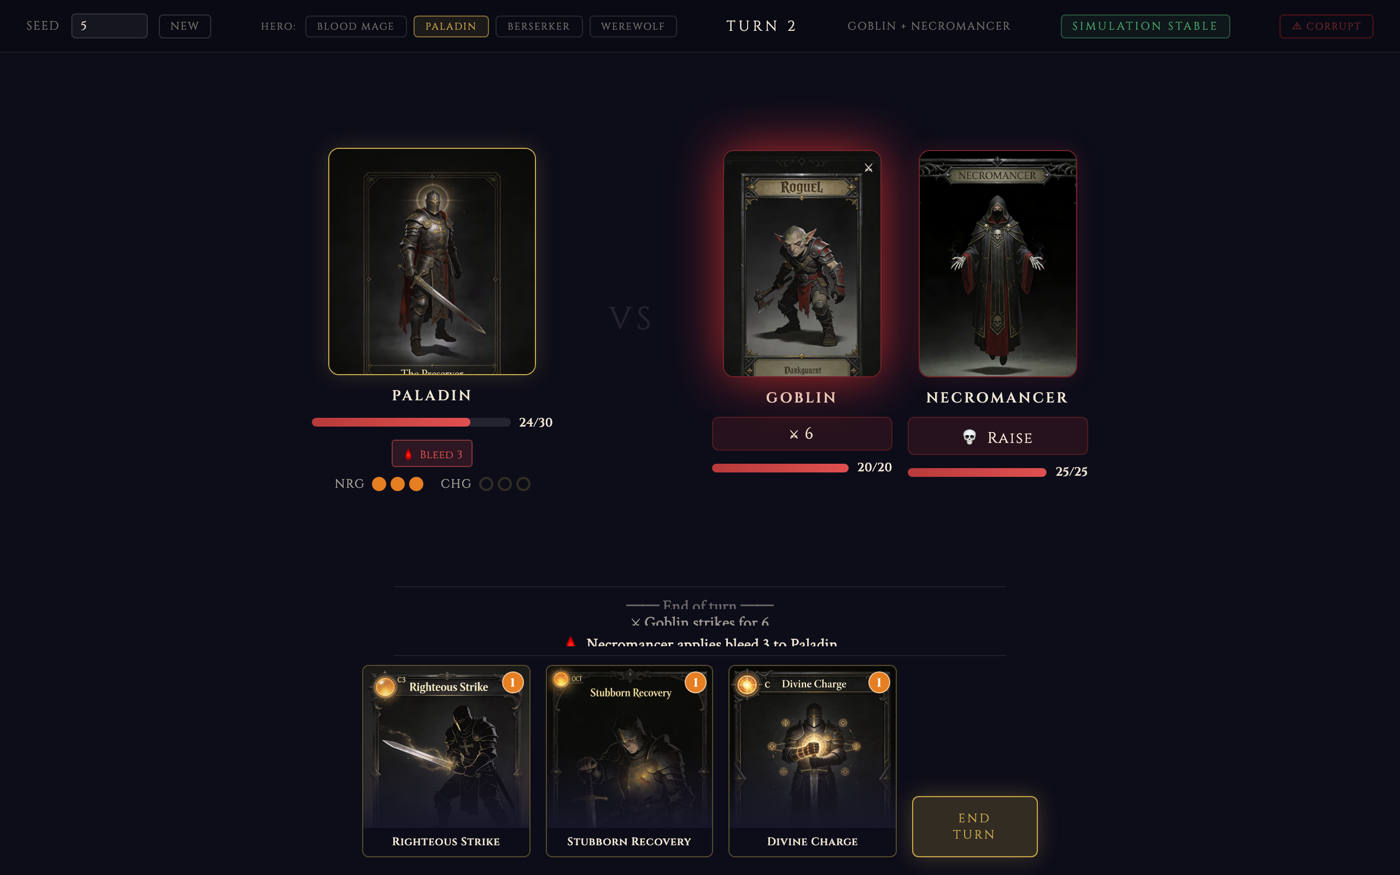
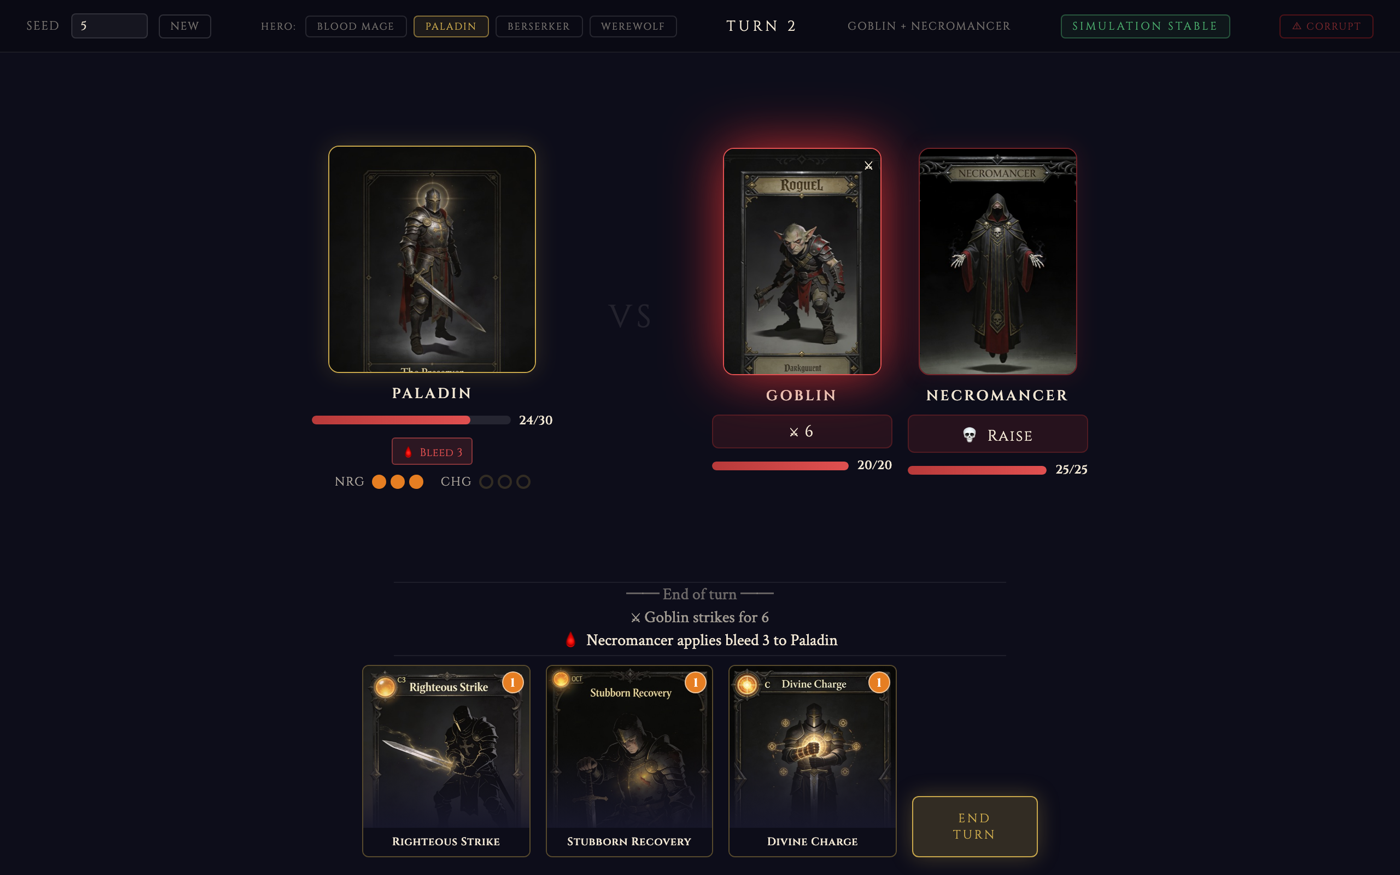
Fix BUG-19: combat log clipped its top line; compress assets; add contents, screenshots, licence

diff --git a/game/index.html b/game/index.html
@@ -425,23 +425,41 @@
     /* ── Combat log ───────────────────────────────────────────── */
 
     .combat-log {
-      height: clamp(56px, 8vh, 80px);
+      /* Height is budgeted against the 13" viewport (see DECISIONS.md D-07), so the
+         log cannot simply grow to fit its entries. It used to clip with
+         overflow: hidden and justify-content: flex-end, which cut the topmost
+         entry in half rather than hiding it — the text looked broken rather than
+         scrolled. Scrolling with the newest entry pinned into view keeps the
+         budget and shows whole lines. */
+      /* Exactly three whole lines: 3 × 18px line-height + 2 × 3px gap + 2 × 4px
+         padding. A height that is not a whole number of lines leaves a sliced
+         row at the top edge, which is what this looked like before. */
+      height: 68px;
       margin: 0 auto;
       width: 560px;
       border-top: 1px solid var(--border);
       border-bottom: 1px solid var(--border);
-      overflow: hidden;
+      overflow-y: auto;
+      overscroll-behavior: contain;
+      scrollbar-width: none;          /* Firefox */
+      -ms-overflow-style: none;       /* legacy Edge */
       display: flex;
       flex-direction: column;
-      justify-content: flex-end;
-      padding: 8px 0;
+      justify-content: flex-start;
+      padding: 4px 0;
       gap: 3px;
       flex-shrink: 0;
     }
 
+    .combat-log::-webkit-scrollbar { display: none; }
+
     .log-entry {
       font-family: 'Crimson Text', serif;
       font-size: 15px;
+      /* Explicit, so the container height is a whole number of lines and a
+         partially visible row cannot appear. */
+      line-height: 18px;
+      flex-shrink: 0;
       padding: 0 4px;
       white-space: nowrap;
       overflow: hidden;
@@ -2602,6 +2620,10 @@ function renderLog() {
 
   if (el.innerHTML !== newHtml) {
     el.innerHTML = newHtml
+    // Keep the newest entry in view. Without this the log scrolls to the top on
+    // every rebuild and the player watches the oldest line instead of what just
+    // happened.
+    el.scrollTop = el.scrollHeight
   }
 }
 

diff --git a/BUGS.md b/BUGS.md
@@ -585,6 +585,38 @@ this entry.
 
 ---
 
+## BUG-19 — the combat log sliced its top line in half ✅ CLOSED
+
+**Date:** 2026-08-21  
+**Found by:** looking at the game, not by a test
+
+**Symptom:** The oldest visible line in the combat log was cut horizontally through the
+middle of the glyphs. It read as broken text rendering rather than as a scrolled list.
+
+**Root cause:** Two numbers that nobody had reconciled. `renderLog()` emits five entries;
+`.combat-log` was `clamp(56px, 8vh, 80px)` with `overflow: hidden` and
+`justify-content: flex-end`, which fits two or three. Clipping a flex column does not hide
+the overflowing child, it cuts it at the container edge — and with no explicit
+`line-height`, the container height was never a whole number of lines, so the cut landed
+mid-glyph.
+
+**Fix:** `overflow-y: auto` with the newest entry scrolled into view after each rebuild,
+an explicit `line-height: 18px`, and a height of exactly three lines
+(3 × 18 + 2 × 3 gap + 2 × 4 padding = 68px). Entries are now either fully visible or
+scrolled out; nothing is half-drawn.
+
+**Why the height could not simply grow:** DECISIONS.md D-07 budgets the viewport of a 13"
+laptop line by line, and the log's share is about 60px. Fitting five entries would have
+taken the space from the battle area.
+
+**Why no test caught it:** every UI test asserts on `textContent`, which is complete
+regardless of what is painted, and the visual regression baselines were captured with the
+same defect in place — a wrong-but-stable rendering is exactly what a baseline preserves.
+Screenshot comparison answers "did this change", never "was this ever right". The defect
+survived because both layers agreed with each other and neither looked at the picture.
+
+---
+
 ## MUTATION-02 — Widening the scope: faults.ts turned out to be almost untested (2026-08-20)
 
 **Date:** 2026-08-20  

diff --git a/README.md b/README.md
@@ -598,7 +598,7 @@ Tests:             532  (495 vitest + 25 Playwright + 12 BDD)
                    + 64,000 seeds across 8 batches via stability run
                    + 200 adversarial runs via chaos agent
 
-Real defects:      18  (see BUGS.md — 16 closed, 2 partially open, each with root cause)
+Real defects:      19  (see BUGS.md — 17 closed, 2 partially open, each with root cause)
                    BUG-13…16 came from the simulation and the RNG battery,
                    not from the unit suite: a biased sample, an enemy that was
                    never implemented, a silently truncated seed, and a UI test
